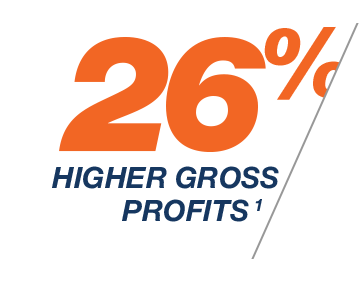
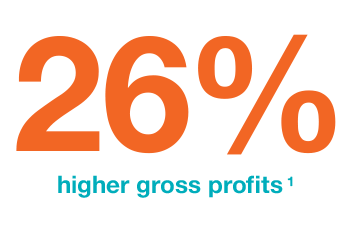
Nada theme mockup

diff --git a/coxauto-email-1-nada.html b/coxauto-email-1-nada.html
@@ -109,14 +109,14 @@ div.preheader
                                   <table cellpadding="0" cellspacing="0" width="100%" style="background-color: #00528A; min-width: 100%; " class="slot-styling"><tr><td style="padding: 0px; " class="slot-styling camarker-inner"><table cellpadding="0" cellspacing="0" width="100%" style="background-color: transparent; min-width: 100%; " class="stylingblock-content-wrapper"><tr><td style="padding: 0px; " class="stylingblock-content-wrapper camarker-inner"><!--Code Modified August 27, 2019--><table border="0" cellpadding="0" cellspacing="0" height="75" width="100%">
 
 		<tr>
-			<td background="http://image.messages.coxautoinc.com/lib/fe97157471640c7a75/m/1/55403e28-a9f3-47ba-9513-7cce67c82c33.jpg" bgcolor="#00528A" style="mso-line-height-rule: exactly; line-height: 0px;" valign="top">
+			<td bgcolor="#01adbb" style="mso-line-height-rule: exactly; line-height: 0px;" valign="top">
 				<!--[if gte mso 9]>       <v:rect xmlns:v="urn:schemas-microsoft-com:vml" fill="true" stroke="false" style="width:640px;height:75px;">         <v:fill type="tile" src="http://image.messages.coxautoinc.com/lib/fe97157471640c7a75/m/1/55403e28-a9f3-47ba-9513-7cce67c82c33.jpg" color="#00528A" />         <v:textbox inset="0,0,0,0">       <![endif]--><div>
 					<table border="0" cellpadding="0" cellspacing="0" height="75" style="padding:21px 0px 21px 0px" width="100%">
 
 							<tr>
 								<td class="mobile-hidden" width="10">
 								</td><td align="center" class="drop" width="320">
-									<a   data-linkto="https://" href="#" style="padding: 0px; font-weight:normal;color:#F26524;text-decoration:none;line-height:100%;" title=""><img alt="Cox Automotive Digital Retailing" data-assetid="135593" height="33" src="https://image.messages.coxautoinc.com/lib/fe97157471640c7a75/m/2/7e9d3079-6f57-4c7b-81be-5f34c8089867.png" style="height: 33px; width: 320px; padding: 0px 0px 0px 0px; text-align: center" width="320"></a></td><td class="mobile-hidden" width="70">
+									<a   data-linkto="https://" href="#" style="padding: 0px; font-weight:normal;color:#F26524;text-decoration:none;line-height:100%;" title=""><img alt="Cox Automotive Digital Retailing" data-assetid="135593" height="33" src="./cox-auto/cox-auto-dr-logo.png" style="height: 33px; width: 320px; padding: 0px 0px 0px 0px; text-align: center" width="320"></a></td><td class="mobile-hidden" width="70">
 								</td><td align="center" class="drop" style="padding:0;" width="220">
 									<img data-assetid="135594" height="28" src="https://image.messages.coxautoinc.com/lib/fe97157471640c7a75/m/2/330216a1-eb8e-4ec9-8c15-025e1570981e.png" style="padding: 0px 0px 0px 0px; width: 220px; text-align: center; border: 0px;display: block" width="220"></td><td class="mobile-hidden" width="20">
 								</td></tr></table></div><!--[if gte mso 9]>         </v:textbox>       </v:rect>       <![endif]--></td></tr></table></td></tr></table></td></tr></table>
@@ -125,26 +125,47 @@ div.preheader
                               </tr>
                               <tr>
                                 <td align="left" class="" valign="top">
-                                  <table cellpadding="0" cellspacing="0" width="100%" style="background-color: transparent; min-width: 100%; border-top: 0px; border-right: 0px; border-bottom: 1px solid #C9C9C9; border-left: 0px; " class="slot-styling"><tr><td style="padding: 0px; " class="slot-styling camarker-inner"><table cellpadding="0" cellspacing="0" width="100%" style="min-width: 100%; " class="stylingblock-content-wrapper"><tr><td class="stylingblock-content-wrapper camarker-inner"><table width="100%" cellspacing="0" cellpadding="0"><tr><td align="center"><a href="#" title=""   data-linkto="https://">
-<img data-assetid="202311" src="./cox-auto/cox_auto_email_hero_1.jpg" width="640" style="display: block; padding: 0px; text-align: center; height: auto; width: 100%; border: 0px;"></a></td></tr></table></td></tr></table><table cellpadding="0" cellspacing="0" width="100%" style="background-color: transparent; min-width: 100%; " class="stylingblock-content-wrapper"><tr><td style="padding: 30px 30px 0px; " class="stylingblock-content-wrapper camarker-inner"><h1 style="color:#005289;font-family:Arial,Helvetica,sans-serif;font-size:38px;font-style:italic;font-weight:normal;line-height:1;text-transform:uppercase;">Personalize Your Sales Process with Offers <span style="color:#f26524;"><b>Created by Shoppers</b></span></h1></td></tr></table><table cellpadding="0" cellspacing="0" width="100%" style="background-color: transparent; min-width: 100%; " class="stylingblock-content-wrapper"><tr>
+                                  <table cellpadding="0" cellspacing="0" width="100%" style="background-color: transparent; min-width: 100%; border-top: 0px; border-right: 0px; border-bottom: 1px solid #C9C9C9; border-left: 0px; " class="slot-styling">
+                                    <tr>
+                                    <td style="padding: 0px; " class="slot-styling camarker-inner">
+                                    <table cellpadding="0" cellspacing="0" width="100%" style="min-width: 100%; " class="stylingblock-content-wrapper">
+                                      <tr><td class="stylingblock-content-wrapper camarker-inner">
+                                        <table width="100%" cellspacing="0" cellpadding="0">
+                                          <tr>
+                                            <td align="center"><a href="#" title=""   data-linkto="https://">
+                                              <img data-assetid="202311" src="./cox-auto/cox_auto_email_hero_1.jpg" width="640" style="display: block; padding: 0px; text-align: center; height: auto; width: 100%; border: 0px;"></a>
+                                            </td>
+                                          </tr>
+                                        </table>
+                                      </td>
+                                    </tr>
+                                  </table>
+                                  <table cellpadding="0" cellspacing="0" width="100%" style="background-color: transparent; min-width: 100%; " class="stylingblock-content-wrapper">
+                                    <tr>
+                                      <td style="padding: 30px 30px 0px; " class="stylingblock-content-wrapper camarker-inner">
+                                        <h1 style="color:#008b96;font-family:Arial,Helvetica,sans-serif;font-size:38px;font-style:italic;font-weight:normal;line-height:1;">Personalize your sales process with offers <span style="color:#f26524;"><b>created by shoppers</b></span>
+                                        </h1>
+                                      </td>
+                                    </tr>
+                                  </table><table cellpadding="0" cellspacing="0" width="100%" style="background-color: transparent; min-width: 100%; " class="stylingblock-content-wrapper"><tr>
 <td style="padding: 0px 0px 30px 30px; " class="stylingblock-content-wrapper camarker-inner"><table cellspacing="0" cellpadding="0" style="width: 100%;"><tr><td><table cellspacing="0" cellpadding="0" dir="rtl" style="width: 100%;"><tr><td valign="top" class="responsive-td" dir="ltr" style="width: 40%; padding-left: 0px;"><table cellpadding="0" cellspacing="0" width="100%" style="min-width: 100%; " class="stylingblock-content-wrapper"><tr><td class="stylingblock-content-wrapper camarker-inner"><table width="100%" cellspacing="0" cellpadding="0"><tr><td align="center"><a href="#" title=""   data-linkto="https://">
 <img data-assetid="151618" src="./cox-auto/cox-auto-numbers-1.png" height="235" width="300" style="display: block; padding: 0px 20px 0px 0px; text-align: center; height: 235px; width: 300px; border: 0px;"></a></td></tr></table></td></tr></table></td>
 <td valign="top" class="responsive-td" dir="ltr" style="width: 60%; padding-right: 0px;"><table cellpadding="0" cellspacing="0" width="100%" style="background-color: transparent; min-width: 100%; " class="stylingblock-content-wrapper"><tr><td style="padding: 0px 30px 0px 0px; " class="stylingblock-content-wrapper camarker-inner"><p>
   Cox Automotive Digital Retailing lets shoppers begin structuring their deal information online through Autotrader, Kelly Blue Book, or your website. This information integrates with their customer record, allowing your team to seamlessly continue the sales process right where the shopper left off online.</p></td></tr></table><table cellpadding="0" cellspacing="0" width="100%" style="min-width: 100%; " class="stylingblock-content-wrapper"><tr><td class="stylingblock-content-wrapper camarker-inner"><table width="100%" border="0" cellspacing="0" cellpadding="0"><tr><td align="left"><table border="0" cellspacing="0" cellpadding="0"><tr><td class="innertd buttonblock" bgcolor="transparent" style=" border-radius: 1px; -moz-border-radius: 1px; -webkit-border-radius: 1px; background-color: transparent;">
-<a target="_blank" class="buttonstyles" style=" font-size: 16px; font-family: Arial, Helvetica, sans-serif; color: #F26524; text-align: left; text-decoration: none; display: block; background-color: transparent; border: 1px solid #F26524; padding: 10px 20px; border-radius: 1px; -moz-border-radius: 1px; -webkit-border-radius: 1px;" href="#" title=""   data-linkto="https://">TELL ME MORE &rsaquo;</a></td></tr></table></td></tr></table></td></tr></table></td></tr></table></td></tr></table></td></tr></table></td></tr></table>
+<a target="_blank" class="buttonstyles" style=" font-size: 16px; font-family: Arial, Helvetica, sans-serif; color: #f26524; text-align: left; text-decoration: none; display: block; background-color: transparent; border: 1px solid #F26524; padding: 10px 20px; border-radius: 30px; -moz-border-radius: 30px; -webkit-border-radius: 30px; font-weight:bold;" href="#" title=""   data-linkto="https://">TELL ME MORE &rsaquo;</a></td></tr></table></td></tr></table></td></tr></table></td></tr></table></td></tr></table></td></tr></table></td></tr></table>
 
                                 </td>
                               </tr>
                               <tr>
                                 <td align="left" class="" valign="top">
                                   <table cellpadding="0" cellspacing="0" width="100%" style="background-color: #F1F1F1; min-width: 100%; " class="slot-styling"><tr><td style="padding: 0px; " class="slot-styling camarker-inner"><table cellpadding="0" cellspacing="0" width="100%" style="min-width: 100%; " class="stylingblock-content-wrapper"><tr><td style="padding: 0px; " class="stylingblock-content-wrapper camarker-inner"><table width="100%" cellspacing="0" cellpadding="0"><tr><td align="center" style="mso-line-height-rule: exactly; line-height: 0px;"><a style="font-weight:normal;color:#F26524;text-decoration:none;line-height:100%;" href="#" title=""   data-linkto="https://">
-<img data-assetid="135632" src="https://image.messages.coxautoinc.com/lib/fe97157471640c7a75/m/2/15c4f10a-02c2-49be-bc63-deb1e482e4ac.png" width="640" style="display: block; padding: 0px; margin: 0px; height: auto; width: 100%; text-align: center;"></a></td></tr></table></td></tr></table></td></tr></table>
+<img data-assetid="135632" src="./cox-auto/cox-auto-email-footer.jpg" width="640" style="display: block; padding: 0px; margin: 0px; height: auto; width: 100%; text-align: center;"></a></td></tr></table></td></tr></table></td></tr></table>
 
                                 </td>
                               </tr>
                               <tr>
                                 <td align="left" class="" valign="top">
-                                  <table cellpadding="0" cellspacing="0" width="100%" style="background-color: #EFEFEF; min-width: 100%; border-top: 4px solid #005289; border-right: 0px; border-bottom: 0px; border-left: 0px; " class="slot-styling"><tr><td style="padding: 20px 0px; " class="slot-styling camarker-inner"><table cellpadding="0" cellspacing="0" width="100%" style="background-color: transparent; min-width: 100%; " class="stylingblock-content-wrapper"><tr><td style="padding: 0px 30px 10px; " class="stylingblock-content-wrapper camarker-inner"><span style="font-size:9px;">1) Cox Automotive Accelerate platform
+                                  <table cellpadding="0" cellspacing="0" width="100%" style="background-color: #EFEFEF; min-width: 100%; border-top: 4px solid #01adbb; border-right: 0px; border-bottom: 0px; border-left: 0px; " class="slot-styling"><tr><td style="padding: 20px 0px; " class="slot-styling camarker-inner"><table cellpadding="0" cellspacing="0" width="100%" style="background-color: transparent; min-width: 100%; " class="stylingblock-content-wrapper"><tr><td style="padding: 0px 30px 10px; " class="stylingblock-content-wrapper camarker-inner"><span style="font-size:9px;">1) Cox Automotive Accelerate platform
 Close Rate and Profit Analysis ((Jan 2019-Aug 2019);sold leads from Digital Retailing compared to other Cox Automotive leads excludes active leads (open opportunities not lost
 or sold).</span></td></tr></table><table cellpadding="0" cellspacing="0" width="100%" class="stylingblock-content-wrapper" style="min-width: 100%; "><tr><td class="stylingblock-content-margin-cell" style="padding: 10px 0px 0px; ">
 <table cellpadding="0" cellspacing="0" width="100%" style="min-width: 100%; " class="stylingblock-content-wrapper"><tr><td style="padding: 0px; " class="stylingblock-content-wrapper camarker-inner"><div style="text-align: center;">
